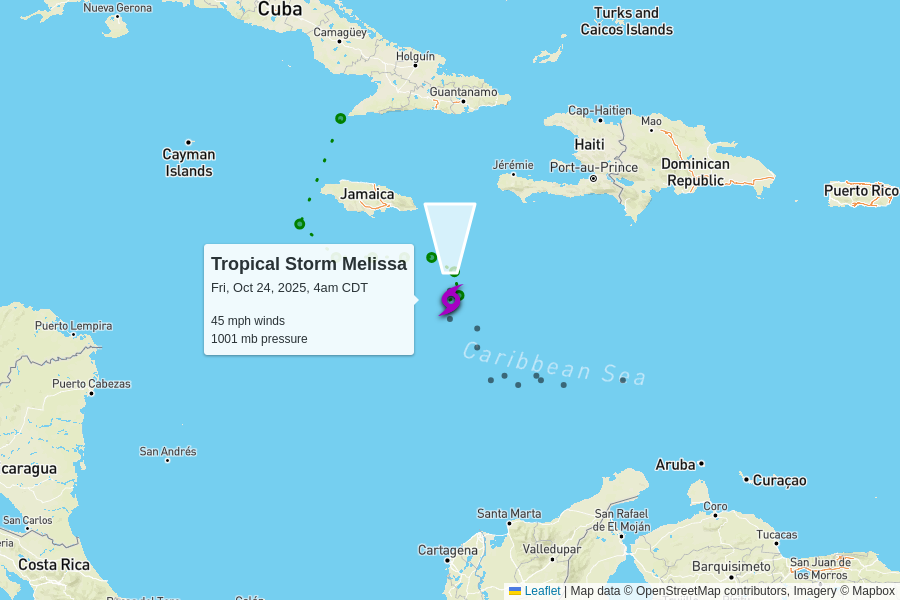
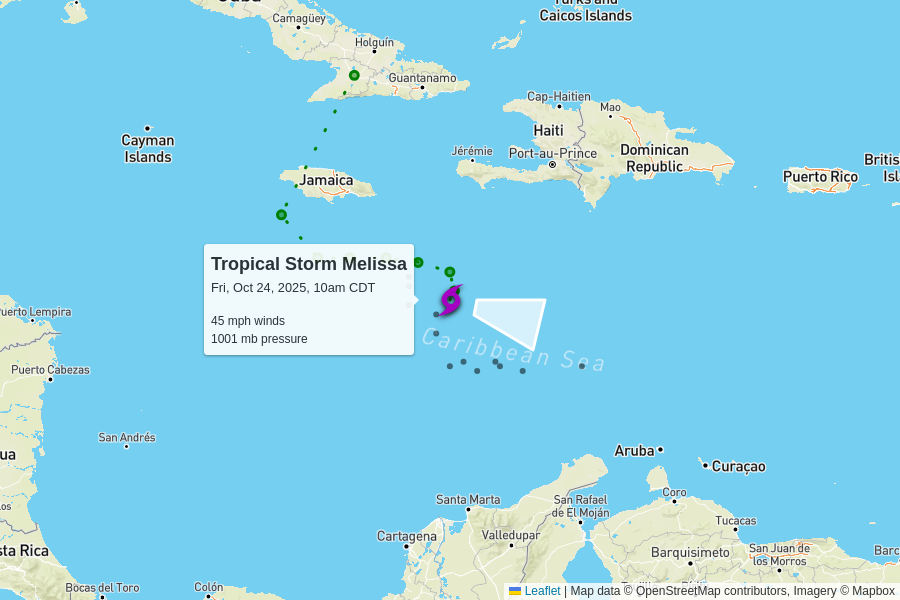
automatic update

diff --git a/docs/index.html b/docs/index.html
@@ -102,7 +102,7 @@
         <td colspan="6" class="storm category-0" >
           <h2>
             Tropical Storm Melissa
-            <p class="updated">last updated <span data-time>2025-10-24T09:00:00.000Z</span></p>
+            <p class="updated">last updated <span data-time>2025-10-24T15:00:00.000Z</span></p>
           </h2>
         </td>
       </tr>
@@ -120,9 +120,9 @@
         <td>45 mph<br>0 mph since last update</td>
         <td>1001 mb<br>0 mb since last update</td>
         <td>
-          null mph to the north
+          2 mph to the east-southeast
           <br/>
-          <span style="display: inline-block; font-size: 1.5em; transform: rotate(0deg);">↑</span>
+          <span style="display: inline-block; font-size: 1.5em; transform: rotate(105deg);">↑</span>
         </td>
         <td><a href="https://raw.githubusercontent.com/mgwalker/atlantic-hurricanes/main/data/csv/AL132025.csv">AL132025.csv</a></td>
         <td><a href="https://www.nhc.noaa.gov/archive/2025/MELISSA.shtml?">NHC advisories</a></td>
